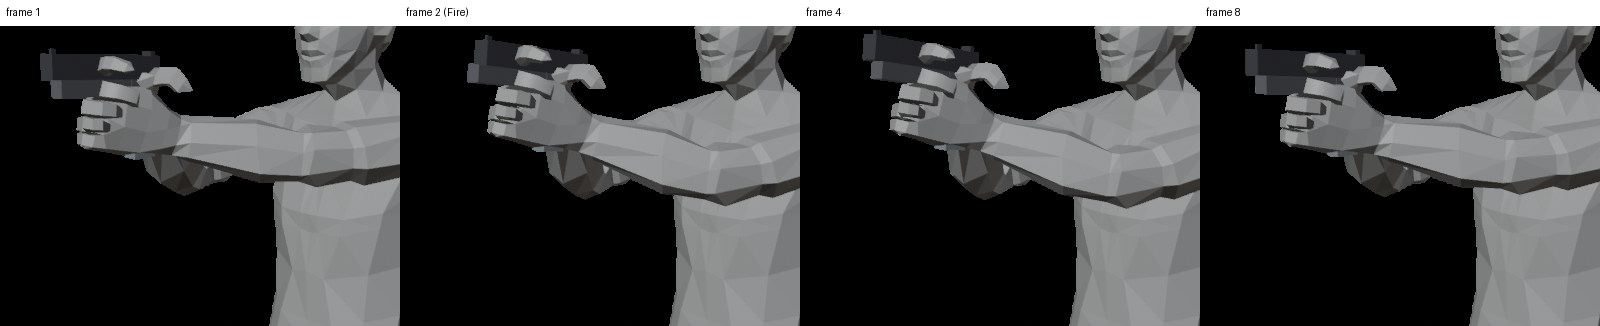
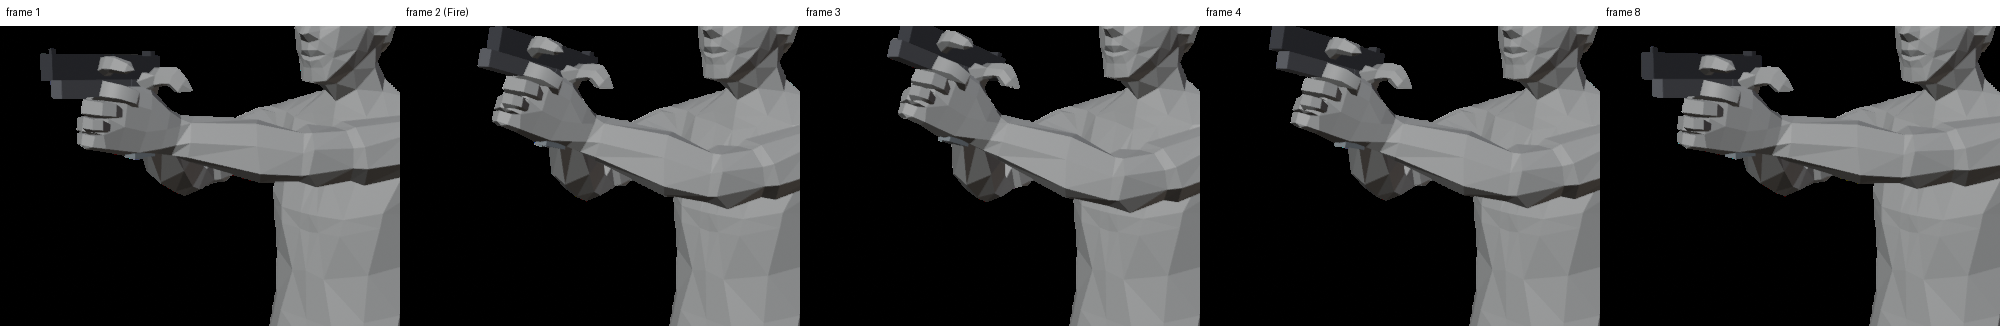
Polish pistol animations: magazine drop, hidden draw, stronger recoil
- Pistol_Reload: the magazine slides out (f8-12), falls with gravity and
  tumbles (f12-16), then is hidden (scale 0, f17-21) until the new
  magazine appears in the left hand (f22). The left hand goes straight
  down to the pouch. The MagHide marker is now MagDrop.
- Pistol_Draw: the pistol is hidden until it appears in the holster at
  f8 (WeaponShow).
- Pistol_Fire: clearer muzzle flip and push-back with a settle
  overshoot; the upper body and head react slightly.
- Weapon rigs get CTRL_Root (scale 0 hides the whole weapon). Detachable
  parts can be hidden with scale 0. Scale keys use constant
  interpolation and export to Unity. Weapon controls reset when the
  Action changes. The weapon clip bake tolerates hidden parents.
- Re-exported all clips and weapon models; docs and images updated.

Claude-Session: https://claude.ai/code/session_01AEskJ9GV9WH7SBmAFe9Lox

diff --git a/Blender/scripts/fps_rig_tools.py b/Blender/scripts/fps_rig_tools.py
@@ -44,7 +44,7 @@ MOTION_RULES = [
 ]
 BODY_NAMES = ("frame", "body", "receiver")
 EFFECT_NAMES = ("muzzle", "eject")
-MOTION_COLORS = {"SLIDE": "THEME02", "ROTATE": "THEME09", "DETACH": "THEME03", "FREE": "THEME07"}
+MOTION_COLORS = {"SLIDE": "THEME02", "ROTATE": "THEME09", "DETACH": "THEME03", "FREE": "THEME07", "ROOT": "THEME10"}
 MOTION_ITEMS = [("SLIDE", "Slide", "Moves along one axis (slide, bolt, pump)"),
                 ("ROTATE", "Rotate", "Rotates around one axis (trigger, hammer, selector)"),
                 ("DETACH", "Detachable", "Free, can follow the left hand (magazine, shell)"),
@@ -85,6 +85,13 @@ def key_control(obj, name, frame):
     pb = obj.pose.bones[name]
     pb.keyframe_insert("location", frame=frame)
     pb.keyframe_insert("rotation_quaternion" if pb.rotation_mode == "QUATERNION" else "rotation_euler", frame=frame)
+    if str(pb.get("Motion", "")).split(" ")[0] in ("DETACH", "ROOT"):
+        pb.keyframe_insert("scale", frame=frame)  # scale 0 = hidden (also in Unity)
+        path = f'pose.bones["{name}"].scale'
+        for fc in action_fcurves(obj):
+            if fc.data_path == path:
+                for kp in fc.keyframe_points:
+                    kp.interpolation = "CONSTANT"  # show/hide snaps, never shrinks
     prop = follow_prop(pb)
     if prop:
         pb.keyframe_insert(f'["{prop}"]', frame=frame)
@@ -170,7 +177,7 @@ def weapon_rig(name):
 
 def reset_weapon_pose(wobj):
     for pb in wobj.pose.bones:
-        pb.matrix_basis = Matrix()
+        pb.matrix_basis = Matrix()  # also scale 1: visible
         prop = follow_prop(pb)
         if prop:
             pb[prop] = 0.0
@@ -182,10 +189,10 @@ def ensure_weapon_action(wobj, act):
     ad = wobj.animation_data_create()
     slot = next((s for s in act.slots if s.name_display == wobj.name), None)
     if ad.action != act:
+        reset_weapon_pose(wobj)  # channels this clip does not key go back to rest
         ad.action = act
     if slot is None:
         slot = act.slots.new(id_type="OBJECT", name=wobj.name)
-        reset_weapon_pose(wobj)  # no weapon keys yet: show the weapon at rest
     if ad.action_slot != slot:
         ad.action_slot = slot
     return slot
@@ -265,8 +272,11 @@ def set_motion(pb, motion, axis=None):
     axis = axis or ("Y" if motion == "SLIDE" else "X")
     i = "XYZ".index(axis)
     pb.rotation_mode = "XYZ"
-    pb.lock_scale = (True, True, True)
-    if motion == "SLIDE":
+    pb.lock_scale = (motion != "DETACH",) * 3  # detachable parts: scale 0 hides them
+    if motion == "ROOT":  # whole weapon: only scale (0 = hidden, 1 = shown)
+        pb.lock_location = pb.lock_rotation = (True, True, True)
+        pb.lock_scale = (False, False, False)
+    elif motion == "SLIDE":
         pb.lock_location = tuple(k != i for k in range(3))
         pb.lock_rotation = (True, True, True)
     elif motion == "ROTATE":
@@ -400,6 +410,7 @@ def make_weapon_rig(objs, character=None, attach=None):
         return b
 
     put(root_name, Matrix(), None, True, 0.05)
+    put("CTRL_Root", Matrix(), None, False, 0.05)  # whole weapon: scale 0 hides it
     for o in parts:
         pp = part_parent(o)
         L = sizes[o] * 0.5
@@ -423,6 +434,19 @@ def make_weapon_rig(objs, character=None, attach=None):
 
     pbs = wobj.pose.bones
     c_def.assign(wobj.data.bones[root_name])
+    c_ctrl.assign(wobj.data.bones["CTRL_Root"])
+    root_pb = pbs[root_name]
+    for c in list(root_pb.constraints):
+        root_pb.constraints.remove(c)
+    con = root_pb.constraints.new("COPY_TRANSFORMS")
+    con.target, con.subtarget = wobj, "CTRL_Root"
+    set_motion(pbs["CTRL_Root"], "ROOT")
+    if body.type == "MESH" and body.data.vertices:
+        bone_world = wobj.matrix_world @ wobj.data.bones["CTRL_Root"].matrix_local
+        to_bone = bone_world.inverted() @ Matrix.LocRotScale(W[body].translation, W[body].to_quaternion(), Vector((1, 1, 1)))
+        pbs["CTRL_Root"].custom_shape = _box_widget(f"WGT_{wname}_Root", [to_bone @ Vector(v.co) for v in body.data.vertices],
+                                                    margin=0.012)
+        pbs["CTRL_Root"].use_custom_shape_bone_size = False
     for o in effects:
         c_def.assign(wobj.data.bones[bone_of[o]])
     for o in parts:
@@ -597,7 +621,8 @@ def _export_weapon_action(act, wobj, filepath, start, end, scene):
         loc = {}
         for b in order:
             pb = wobj.pose.bones[b.name]
-            loc[b.name] = (pb.parent.matrix.inverted() @ pb.matrix) if pb.parent else pb.matrix.copy()
+            # inverted_safe: a hidden (scale 0) parent has no proper inverse
+            loc[b.name] = (pb.parent.matrix.inverted_safe() @ pb.matrix) if pb.parent else pb.matrix.copy()
         frames[f] = loc
     name = wobj.name
     wobj.name = name + "__src"
@@ -792,7 +817,7 @@ class FPSRIG_OT_set_motion(bpy.types.Operator):
     @classmethod
     def poll(cls, context):
         pb = context.active_pose_bone
-        return pb is not None and "Motion" in pb
+        return pb is not None and "Motion" in pb and pb["Motion"] != "ROOT"
 
     def invoke(self, context, event):
         cur = context.active_pose_bone["Motion"].split()
@@ -875,7 +900,9 @@ class FPSRIG_PT_panel(bpy.types.Panel):
         pb = context.active_pose_bone
         if pb is not None and follow_prop(pb):
             box.prop(pb, f'["{follow_prop(pb)}"]', text=f"{pb.name}: {follow_prop(pb)}")
-        if pb is not None and "Motion" in pb:
+        if pb is not None and pb.get("Motion") == "ROOT":
+            box.label(text="Whole weapon: scale 0 = hidden, 1 = shown")
+        elif pb is not None and "Motion" in pb:
             box.operator(FPSRIG_OT_set_motion.bl_idname, text=f"Motion: {pb['Motion']} (change)")
         if pb is None or (follow_prop(pb) is None and "Motion" not in pb):
             box.label(text="Select a hand, weapon, camera or weapon-part control")

diff --git a/Blender/scripts/build_fps_rig.py b/Blender/scripts/build_fps_rig.py
@@ -894,7 +894,7 @@ print("draw end: left hand on pistol error %.4f m" % (
 
 # ---------------------------------------------------------------- weapon animation examples (Pistol)
 # Character + pistol parts in ONE Action: the pistol rig gets its own slot (tools.ensure_weapon_action).
-W_CTRLS = ("CTRL_Slide", "CTRL_Trigger", "CTRL_Magazine")
+W_CTRLS = ("CTRL_Root", "CTRL_Slide", "CTRL_Trigger", "CTRL_Magazine")
 
 
 def wpb(n):
@@ -932,19 +932,32 @@ def set_weapon_ctrl_world(name, world):
     upd()
 
 
+# Pistol_Draw: the pistol is hidden (CTRL_Root scale 0) until it is drawn from the holster at f8
+act = bpy.data.actions["Pistol_Draw"]
+arm.animation_data.action = act
+tools.ensure_weapon_action(WPN_PISTOL, act)
+for f, shown in ((1, 0.0), (7, 0.0), (8, 1.0), (24, 1.0)):
+    scene.frame_set(f)
+    wreset()
+    wpb("CTRL_Root").scale = (shown,) * 3
+    wkey(f)
+
 # Pistol_Fire: hip shot - trigger, slide cycle, recoil in the hands, small camera kick
 act = new_action("Pistol_Fire", 1, 12)
 tools.set_action_weapon(act, "Pistol")
 act.pose_markers.new("Fire").frame = 2
-FIRE = {1: (0, 0, 0, 0), 2: (1.0, 1.0, 0.7, 1.0), 3: (1.0, 1.0, 1.0, 0.7), 4: (0.0, 0.6, 0.85, 0.45),
-        5: (0.0, 0.0, 0.6, 0.25), 8: (0.0, 0.0, 0.2, 0.08), 12: (0, 0, 0, 0)}  # slide, trigger, kick, camera (0..1)
+FIRE = {1: (0, 0, 0, 0), 2: (1.0, 1.0, 0.75, 0.6), 3: (1.0, 1.0, 1.0, 1.0), 4: (0.0, 0.5, 0.7, 0.7),
+        5: (0.0, 0.0, 0.35, 0.4), 6: (0.0, 0.0, -0.08, 0.15), 8: (0.0, 0.0, 0.03, 0.05),
+        12: (0, 0, 0, 0)}  # slide, trigger, kick (negative = settle overshoot), camera (0..1)
 for f, (sl, tr, kick, cam) in FIRE.items():
     scene.frame_set(f)
     reset_pose()
     wreset()
     melee_body(0.0, lean=3)
-    aim, up = tilt(PISTOL_AIM, Vector((0, 0, 1)), 8 * kick)
-    place_weapon(PISTOL_HIP - PISTOL_AIM * 0.035 * kick + Vector((0, 0, 0.012 * kick)), aim, up)
+    rot("CTRL_UpperChest", 2 - 2.0 * kick)  # the shot pushes the upper body back a little
+    rot("CTRL_Head", -1.0 * kick)
+    aim, up = tilt(PISTOL_AIM, Vector((0, 0, 1)), 17 * kick)  # muzzle flip
+    place_weapon(PISTOL_HIP - PISTOL_AIM * 0.05 * kick + Vector((0, 0, 0.018 * kick)), aim, up)
     left_hand_on_socket(PISTOL_SUPPORT)
     set_world("CTRL_Elbow_Pole.R", (-0.40, 0.00, 0.95))
     set_world("CTRL_Elbow_Pole.L", (0.40, -0.10, 0.95))
@@ -958,7 +971,7 @@ for f, (sl, tr, kick, cam) in FIRE.items():
 # Pistol_Reload: magazine out, new magazine from the left hip, inserted, back to two-handed grip
 act = new_action("Pistol_Reload", 1, 52)
 tools.set_action_weapon(act, "Pistol")
-for name, frame_ in (("MagOut", 8), ("MagHide", 12), ("MagShow", 22), ("MagIn", 34)):
+for name, frame_ in (("MagOut", 8), ("MagDrop", 12), ("MagShow", 22), ("MagIn", 34)):
     act.pose_markers.new(name).frame = frame_
 R_POS = Vector((-0.07, -0.33, 1.34))
 R_AIM = Vector((0.18, -0.9, 0.40)).normalized()
@@ -989,7 +1002,7 @@ for f in (1, 6, 8, 12, 20, 22, 26, 30, 34, 38, 44, 48, 52):
 # left hand lets go at f8 and works in world space until it is back on the grip at f44
 tools.switch_follow(arm, "CTRL_Hand_IK.L", 0.0, frame=8)
 LEFT_FREE = {
-    12: ((0.12, -0.25, 1.20), (0.0, -0.6, -0.8), (-1, 0.1, 0), (40, 20)),
+    12: ((0.17, -0.15, 1.10), (0.0, -0.4, -0.9), (-1, 0.1, 0), (30, 15)),  # straight down toward the pouch
     20: ((0.215, -0.02, 1.02), (0.0, -0.25, -1), (-1, 0.1, 0), (60, 35)),  # magazine pouch, left hip
     22: ((0.20, -0.06, 1.06), (-0.1, -0.5, -0.85), (-1, 0.1, 0), (60, 35)),  # leaving the pouch with the new mag
     26: ((0.08, -0.28, 1.20), (-0.3, -0.9, 0.3), (0, 0, 1), (60, 35)),
@@ -1022,11 +1035,27 @@ for f in (48, 52):
     pbs["CTRL_Hand_IK.L"]["Follow Weapon"] = 1.0
     left_hand_on_socket(PISTOL_SUPPORT)
     tools.key_control(arm, "CTRL_Hand_IK.L", f)
-# magazine: drops out (f8-12), held out of sight, appears in the left hand (f22), inserted (f34)
-for f in (12, 20, 21):
+# magazine: slides out (f8-12), falls (f12-16), hidden (scale 0, f17-21), appears in the left hand (f22),
+# inserted (f34). In Unity the MagDrop event can instead hide it and spawn a physics magazine at f12.
+for f, out in ((10, 0.05), (12, 0.13)):
     scene.frame_set(f)
     wpb("CTRL_Magazine")["Follow Left Hand"] = 0.0
-    wpb("CTRL_Magazine").matrix_basis = Matrix.Translation((0, 0, -0.12))
+    wpb("CTRL_Magazine").matrix_basis = Matrix.Translation((0, 0, -out))
+    wkey(f, ("CTRL_Magazine",))
+scene.frame_set(12)
+mag12 = (WPN_PISTOL.matrix_world @ wpb("CTRL_Magazine").matrix).copy()
+for f, drop, tumble in ((14, 0.22, 20), (16, 0.80, 65)):  # gravity: world down, accelerating, tumbling
+    scene.frame_set(f)
+    wpb("CTRL_Magazine")["Follow Left Hand"] = 0.0
+    m = Matrix.Translation((0, 0, -drop)) @ mag12 @ Matrix.Rotation(math.radians(tumble), 4, "X")
+    set_weapon_ctrl_world("CTRL_Magazine", Matrix.LocRotScale(m.translation, m.to_quaternion(), Vector((1, 1, 1))))
+    wkey(f, ("CTRL_Magazine",))
+fallen = wpb("CTRL_Magazine").matrix_basis.copy()
+for f in (17, 20, 21):
+    scene.frame_set(f)
+    wpb("CTRL_Magazine")["Follow Left Hand"] = 0.0
+    wpb("CTRL_Magazine").matrix_basis = fallen
+    wpb("CTRL_Magazine").scale = (0.0, 0.0, 0.0)
     wkey(f, ("CTRL_Magazine",))
 scene.frame_set(22)
 wpb("CTRL_Magazine")["Follow Left Hand"] = 1.0

diff --git a/Docs/ANIMATOR_GUIDE.md b/Docs/ANIMATOR_GUIDE.md
@@ -36,7 +36,7 @@ Hver animasjon er en **Action** i Blender og blir én FBX-fil i Unity. Disse fø
 | `Pistol_Idle_Hip` | Pistol med to hender i hofteposisjon, sikter mot midten av skjermen | Pistol | 60 frames |
 | `Pistol_Draw` | Fra idle trekkes pistolen, og klippet ender i `Pistol_Idle_Hip` | Pistol | nei, 24 frames |
 | `Pistol_Fire` | Skudd fra hofta: avtrekker, sliden går bak og fram, rekyl, lite kamerarykk | Pistol (animert) | nei, 12 frames |
-| `Pistol_Reload` | Magasinet ut, nytt magasin fra venstre hofte, inn, tilbake i grepet | Pistol (animert) | nei, 52 frames |
+| `Pistol_Reload` | Magasinet glir ut og faller, nytt magasin fra venstre hofte, inn, tilbake i grepet | Pistol (animert) | nei, 52 frames |
 | `Example_FPS_Ready` | Rifle klar | Rifle | nei |
 
 ![Pistol_Draw](images/pistol_draw.png)
@@ -156,6 +156,7 @@ Våpenet sitter **alltid i høyre hånd** med et fast grep, på samme måte som 
 3. Legg en markør der våpenet skal dukke opp, f.eks. når hånden er ved hofta:
    - I Action Editor slår du på **Show Pose Markers**. Den ligger i View-menyen eller Marker-menyen, avhengig av Blender-versjonen.
    - Trykk **M** på framen, og gi markøren navnet `WeaponShow` (F2).
+   - **Skjul våpenet frem til da:** velg våpenets `CTRL_Root` (stor boks rundt hele våpenet). Sett skala til 0 (S 0, I) på første frame og skala 1 på `WeaponShow`-framen. Skalaen bytter momentant og blir med til Unity, så våpenet er skjult der også.
 4. Venstre hånd kommer opp. På framen der den griper, trykker du **Switch Follow** på `CTRL_Hand_IK.L` (0 → 1).
 5. Avslutt i nøyaktig samme pose som idle-posen klippet skal gå over i, f.eks. `Pistol_Idle_Hip`.
 
@@ -176,10 +177,11 @@ Våpenet sitter **alltid i høyre hånd** med et fast grep, på samme måte som 
 
 ### Lading (se `Pistol_Reload`)
 1. Venstre hånd slipper våpenet: velg `CTRL_Hand_IK.L` og trykk **Switch Follow** (1 → 0).
-2. Magasinet (`CTRL_Magazine`) glir ut av våpenet. Sett markørene `MagOut` når det løsner og `MagHide` når det skal forsvinne (Unity skjuler det eller slipper et fysisk magasin).
-3. Hånden henter et nytt magasin ved hofta. Der velger du `CTRL_Magazine` og setter **Follow Left Hand** = 1, og plasserer magasinet i hånden. Sett markøren `MagShow`.
-4. Hånden fører magasinet inn. Når det sitter, trykker du **Switch Follow** på `CTRL_Magazine` (1 → 0), så det blir sittende i våpenet. Sett markøren `MagIn`.
-5. Hånden tilbake på grepet: **Switch Follow** på `CTRL_Hand_IK.L` (0 → 1).
+2. Magasinet (`CTRL_Magazine`) glir ut av grepet og faller. Sett markøren `MagOut` når det løsner og `MagDrop` når det er fri av våpenet. Der kan Unity slippe et fysisk magasin.
+3. Når det har falt ut av bildet, skaler du det til 0 (S 0, I). Det er skjult til det nye magasinet skal vises, og skjulingen blir med i Unity-klippet.
+4. Hånden henter et nytt magasin ved hofta. Der velger du `CTRL_Magazine`, setter **Follow Left Hand** = 1, skala 1, og plasserer magasinet i hånden. Sett markøren `MagShow`.
+5. Hånden fører magasinet inn. Når det sitter, trykker du **Switch Follow** på `CTRL_Magazine` (1 → 0), så det blir sittende i våpenet. Sett markøren `MagIn`.
+6. Hånden tilbake på grepet: **Switch Follow** på `CTRL_Hand_IK.L` (0 → 1).
 
 Samme oppskrift gjelder hagle (Shell i stedet for Magazine, én gang per patron), SMG og rifle.
 
@@ -225,7 +227,7 @@ Dette skjer når du trykker:
 1. Dra FBX-filen inn i prosjektet.
 2. Under **Rig** velger du Animation Type **Humanoid**, Avatar Definition **Copy From Other Avatar** og den eksisterende Mixamo-avataren. Trykk **Apply**.
 3. Under **Animation** heter klippet det samme som Actionen. Huk av **Loop Time** for idle-klippene.
-4. Markøren `WeaponShow`/`WeaponHide` blir ikke med automatisk. Legg den inn som en **Animation Event** på samme frame (se `Docs/UNITY_INTEGRATION.md`).
+4. Markørene (`WeaponShow`, `MagDrop` osv.) blir ikke med automatisk. Skjuling med skala 0 blir derimot med i klippene. Legg den inn som en **Animation Event** på samme frame (se `Docs/UNITY_INTEGRATION.md`).
 
 **Våpen i Unity:** importeres som **Generic**, ikke Humanoid. Se `Docs/UNITY_INTEGRATION.md` §7.
 
@@ -284,6 +286,8 @@ Det trengs ingen bein i Max.
 - **Animasjonene dine beholdes**, fordi delene har samme navn.
 
 ### 8.3 Justere bevegelse
+- **`CTRL_Root`** (stor boks rundt hele våpenet) skjuler våpenet: skala 0 = skjult, 1 = synlig. Brukes i trekk og holster.
+- **Løse deler** (magasin, patron) kan også skaleres til 0 for å skjules.
 - Velg en våpenkontroll i Pose Mode. Panelet viser **Motion: …**. Trykk på den for å velge type (Slide / Rotate / Detachable / Free) og akse.
 - Det settes som vanlige lås-ikoner i N → Item, så du kan også slå dem av og på der.
 

diff --git a/Docs/RIG_PLAN.md b/Docs/RIG_PLAN.md
@@ -131,6 +131,7 @@ Still open – needs the Unity project:
 
 - Each weapon with moving parts is its own small armature `WPN_<Weapon>` (collection `Weapons/WPN_<Weapon>`), parented to `WPN_Attach`. Its armature space equals the socket frame (Y up, Z barrel), so the exported weapon root has no rotation/scale (+Z barrel, +Y up in Unity).
 - Built by **Make / Update Weapon Rig** (`fps_rig_tools.make_weapon_rig`) from part objects modelled at the origin (grip), barrel −Y, up +Z, one object per moving part, pivot = object origin, names `<Weapon>_<Part>`. Works for any weapon type: motion type from the part name (Slide / Rotate / Detachable / Free, editable), hierarchy from object parenting, object scale baked (3ds Max/FBX imports), pivot axes taken relative to the main part. Update keeps animation (bone names = part names).
+- `CTRL_Root` drives the weapon root (scale 0 hides the whole weapon, e.g. before a draw). Detachable parts can also be hidden with scale 0; scale keys use constant interpolation and export to Unity.
 - Controls `CTRL_<Part>` drive deform bones (Copy Transforms); detachable parts get **Follow Left Hand** (Copy Transforms to the character's `PROP_Hand.L`, a left-hand prop socket mirroring the right-hand grip).
 - One Action per clip holds both character and weapon animation (separate action slots). The panel's **Weapon for this Action** + a persistent handler show the right weapon and share the Action with its rig (also after duplicating an Action).
 - Export: character clip as before; weapon clip `Exports/Weapons/<W>/WPN_<W>@<Action>.fbx` (deform bones relative to the weapon root, baked on a temporary unconstrained copy); weapon model `WPN_<W>.fbx` (Generic). Examples: `WPN_Pistol` (Frame/Slide/Trigger/Magazine/Muzzle/Eject) with `Pistol_Fire` and `Pistol_Reload`; `WPN_Shotgun` (Receiver/Pump/Trigger/Shell) rigged with the same tool.

diff --git a/Docs/UNITY_INTEGRATION.md b/Docs/UNITY_INTEGRATION.md
@@ -63,7 +63,8 @@ Ryggraden bøyes i kode etter kamerapitch, f.eks. i LateUpdate eller med en Anim
 ## 6. Kjente forskjeller mellom Blender og Unity
 
 - Humanoid-retargeting (muskelgrenser, arm stretch) kan flytte hendene noen millimeter. Støttehånden kan da ligge litt utenfor våpenet. Runtime left-hand IK løser det.
-- Blender-markører (`WeaponShow`/`WeaponHide`) blir ikke med i FBX-en og må legges inn som Events manuelt.
+- Blender-markører (`WeaponShow`, `MagDrop` osv.) blir ikke med i FBX-en og må legges inn som Events manuelt.
+- Skjuling i klippene skjer med skala 0 på beinet (`Pistol_Root` i `Pistol_Draw` frame 1–7, `Pistol_Magazine` i `Pistol_Reload` frame 17–21). Unity spiller av dette uten ekstra kode.
 
 ## 7. Riggede våpen (slide, avtrekker, magasin)
 
@@ -95,7 +96,7 @@ WPN_Pistol            (prefab-rot)
   Klippene er laget på samme tidslinje i Blender, så de holder takt når de startes samtidig.
 - **Events** fra Blender-markørene legges inn som Animation Events. Det går greit på karakterklippet, eller på våpenklippet hvis du vil at våpenet skal styre effektene selv:
   - `Fire`: munningsflamme, lyd og hylse ved `Pistol_Muzzle`/`Pistol_Eject`.
-  - `MagHide`: skjul magasinet i våpenet, og spawn eventuelt et fysisk magasin som faller.
+  - `MagDrop` (frame 12): magasinet er fri av våpenet. Spawn eventuelt et fysisk magasin her, og skjul klippets magasin. Klippet skjuler det uansett med skala 0 fra frame 17.
   - `MagShow`: vis magasinet, som da sitter i venstre hånd.
   - `MagIn`: magasinet sitter. Fyll ammunisjonen.
 - Magasinets bevegelse ligger i våpenklippet og er målt i forhold til våpenet. Animasjonen stemmer med venstre hånd i karakterklippet så lenge begge spilles i takt.
